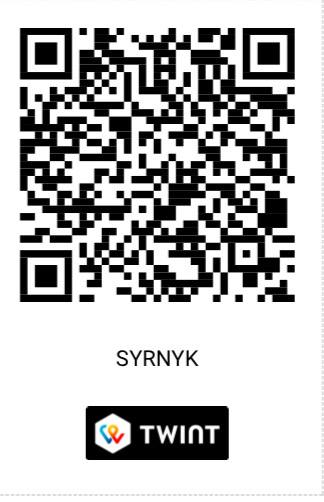
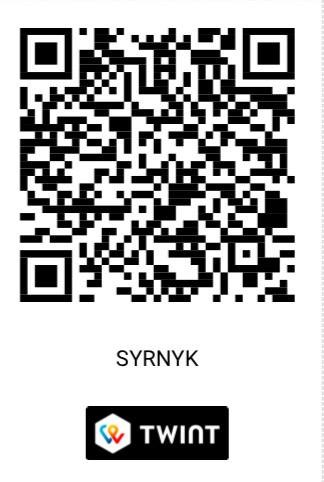
Updated Checkout page

diff --git a/frontend/src/components/ChackoutPage.js b/frontend/src/components/ChackoutPage.js
@@ -8,6 +8,7 @@ import { useTranslation } from 'react-i18next';
 import { apiClient } from '../utils/api';
 import { loadUserPreferences } from '../utils/userPreferences';
 
+
 // Components
 import AuthChoice from './AuthChoice';
 import CustomerInfoForm from './checkout/CustomerInfoForm';
@@ -100,6 +101,14 @@ const CheckoutPage = () => {
     message: ''
   });
 
+  // TWINT payment confirmation
+  const [twintPaymentConfirmed, setTwintPaymentConfirmed] = useState(false);
+  
+  // Handle TWINT confirmation change
+  const handleTwintConfirmationChange = (isConfirmed) => {
+    setTwintPaymentConfirmed(isConfirmed);
+  };
+  
   // Load initial data when user is available
   useEffect(() => {
     const loadInitialData = async () => {
@@ -195,6 +204,11 @@ const CheckoutPage = () => {
   // Handle form field changes
   const handleChange = (e) => {
     const { name, value, type, checked } = e.target;
+
+    // Reset TWINT confirmation when switching away from TWINT
+  if (name === 'paymentMethod' && value !== 'TWINT' && twintPaymentConfirmed) {
+    setTwintPaymentConfirmed(false);
+  }
     
     // Special handling for createAccount checkbox
     if (type === 'checkbox' && name === 'createAccount') {
@@ -238,90 +252,125 @@ const CheckoutPage = () => {
     }
   };
 
+  // Update submit button disabled condition
+const isSubmitDisabled = () => {
+  // Base conditions
+  const baseDisabled = isSubmitting || !deliveryCalculation.isValid;
+  
+  // Additional TWINT condition
+  const twintDisabled = formData.paymentMethod === 'TWINT' && !twintPaymentConfirmed;
+  
+  return baseDisabled || twintDisabled;
+};
+
   // Validate the form before submission
   const validateForm = () => {
-    // Basic required field validation
-    if (!formData.firstName || !formData.lastName || !formData.email || !formData.phone) {
-      setFormValidationError(t('validation.missing_fields'));
-      return false;
-    }
-
-    // Email validation
-    const emailRegex = /^[^\s@]+@[^\s@]+\.[^\s@]+$/;
-    if (!emailRegex.test(formData.email)) {
-      setFormValidationError(t('validation.invalid_email'));
-      return false;
-    }
-
-    // Phone validation
-    const phoneRegex = /^\+[1-9]\d{6,14}$/;
-    if (formData.phone && !phoneRegex.test(formData.phone)) {
-      setFormValidationError(t('validation.invalid_phone'));
-      return false;
-    }
-
-    // Delivery validation based on type
-    if (formData.deliveryType === 'ADDRESS') {
-      if (!formData.street || !formData.house || !formData.city || !formData.postalCode) {
-        setFormValidationError(t('validation.missing_address'));
-        return false;
-      }
-      
-      // Validate postal code
-      if (!/^\d{4}$/.test(formData.postalCode)) {
-        setFormValidationError(t('validation.invalid_postal_code'));
-        return false;
-      }
-      
-      // Check if delivery is valid based on calculation
-      if (!deliveryCalculation.isValid) {
-        setFormValidationError(deliveryCalculation.message || t('validation.delivery_not_available'));
-        return false;
-      }
-    } else if (formData.deliveryType === 'RAILWAY_STATION') {
-      if (!formData.stationId) {
-        setFormValidationError(t('validation.missing_station'));
-        return false;
-      }
-    }
-
-    // Delivery date and time validation
-    if (!formData.deliveryDate) {
-      setFormValidationError(t('validation.missing_delivery_date'));
-      return false;
-    }
-
-    // Time slot validation only for pickup
-  if (formData.deliveryType === 'PICKUP' && !formData.deliveryTimeSlot) {
-    setFormValidationError(t('validation.missing_delivery_time'));
-    return false;
+  let isValid = true;
+  let errorMessage = '';
+  const emailRegex = /^[^\s@]+@[^\s@]+\.[^\s@]+$/;
+  const phoneRegex = /^\+[1-9]\d{6,14}$/;
+  
+  // Basic required field validation with specific messages
+  if (!formData.firstName?.trim()) {
+    errorMessage = t('validation.first_name_required');
+    isValid = false;
+  } else if (!formData.lastName?.trim()) {
+    errorMessage = t('validation.last_name_required');
+    isValid = false;
+  } else if (!formData.email?.trim()) {
+    errorMessage = t('validation.email_required');
+    isValid = false;
+  } else if (!formData.phone?.trim()) {
+    errorMessage = t('validation.phone_required');
+    isValid = false;
   }
 
-    // Account creation validation
-    if (isGuest && createAccount) {
-      // Password validation
-      if (!formData.password || formData.password.length < 8) {
-        setFormValidationError(t('register.validation.password_requirements', { ns: 'auth' }));
-        return false;
-      }
-      
-      // Confirm password validation
-      if (formData.password !== formData.confirmPassword) {
-        setFormValidationError(t('register.validation.passwords_mismatch', { ns: 'auth' }));
-        return false;
-      }
-      
-      // Data consent validation
-      if (!formData.dataConsentAccepted) {
-        setFormValidationError(t('register.validation.consent_required', { ns: 'auth' }));
-        return false;
-      }
-    }
+  // Email validation
+  else if (!emailRegex.test(formData.email)) {
+    errorMessage = t('validation.invalid_email');
+    isValid = false;
+  }
 
-    // All validations passed
-    setFormValidationError(null);
-    return true;
-  };
+  // Phone validation
+  else if (formData.phone && !phoneRegex.test(formData.phone)) {
+    errorMessage = t('validation.invalid_phone');
+    isValid = false;
+  }
+
+  // Payment method validation
+  else if (!formData.paymentMethod) {
+    errorMessage = t('validation.payment_method_required');
+    isValid = false;
+  }
+
+  // TWINT specific validation
+  else if (formData.paymentMethod === 'TWINT' && !twintPaymentConfirmed) {
+    errorMessage = t('validation.twint_confirmation_required');
+    isValid = false;
+  }
+
+  // Delivery validation based on type
+  else if (formData.deliveryType === 'ADDRESS') {
+    if (!formData.street?.trim()) {
+      errorMessage = t('validation.street_required');
+      isValid = false;
+    } else if (!formData.house?.trim()) {
+      errorMessage = t('validation.house_required');
+      isValid = false;
+    } else if (!formData.city?.trim()) {
+      errorMessage = t('validation.city_required');
+      isValid = false;
+    } else if (!formData.postalCode?.trim()) {
+      errorMessage = t('validation.postal_code_required');
+      isValid = false;
+    } else if (!/^\d{4}$/.test(formData.postalCode)) {
+      errorMessage = t('validation.invalid_postal_code');
+      isValid = false;
+    } else if (!deliveryCalculation.isValid) {
+      errorMessage = deliveryCalculation.message || t('validation.delivery_not_available');
+      isValid = false;
+    }
+  } else if (formData.deliveryType === 'RAILWAY_STATION') {
+    if (!formData.stationId) {
+      errorMessage = t('validation.station_required');
+      isValid = false;
+    }
+  } else if (formData.deliveryType === 'PICKUP') {
+    if (!formData.storeId) {
+      errorMessage = t('validation.store_required');
+      isValid = false;
+    }
+  }
+
+  // Delivery date and time validation
+  else if (!formData.deliveryDate) {
+    errorMessage = t('validation.delivery_date_required');
+    isValid = false;
+  }
+
+  // Time slot validation only for pickup
+  else if (formData.deliveryType === 'PICKUP' && !formData.deliveryTimeSlot) {
+    errorMessage = t('validation.delivery_time_required');
+    isValid = false;
+  }
+
+  // Account creation validation
+  else if (isGuest && createAccount) {
+    if (!formData.password || formData.password.length < 8) {
+      errorMessage = t('register.validation.password_requirements', { ns: 'auth' });
+      isValid = false;
+    } else if (formData.password !== formData.confirmPassword) {
+      errorMessage = t('register.validation.passwords_mismatch', { ns: 'auth' });
+      isValid = false;
+    } else if (!formData.dataConsentAccepted) {
+      errorMessage = t('register.validation.consent_required', { ns: 'auth' });
+      isValid = false;
+    }
+  }
+
+  setFormValidationError(isValid ? null : errorMessage);
+  return isValid;
+};
 
   // Prepare time from time slot string
   const prepareTimeFromSlot = (dateString, timeSlotString) => {
@@ -374,7 +423,12 @@ const CheckoutPage = () => {
         deliveryCost: parseFloat(formData.deliveryCost) || 0,
         // Add delivery date and time slot
         deliveryDate: formData.deliveryDate,
-        deliveryTimeSlot: formData.deliveryTimeSlot
+        deliveryTimeSlot: formData.deliveryTimeSlot,
+        // Add TWINT confirmation data
+      ...(formData.paymentMethod === 'TWINT' && {
+        twintPaymentConfirmed: twintPaymentConfirmed,
+        twintConfirmationTime: new Date().toISOString()
+      })
       };
 
       // For guest orders, add customer info
@@ -499,7 +553,7 @@ const CheckoutPage = () => {
     return (
       <Container className="py-5 text-center">
         <h2 className="text-success mb-4">{t('checkout.order_success')}</h2>
-        <p>{t('checkout.success_message')}</p>
+        <p>{t('checkout.order_success_message')}</p>
         <Button variant="primary" className="mt-3" onClick={() => navigate('/')}>
           {t('checkout.continue_shopping')}
         </Button>
@@ -572,6 +626,7 @@ const CheckoutPage = () => {
                   <PaymentMethodSelector
                     selectedMethod={formData.paymentMethod}
                     onChange={handleChange}
+                    onTwintConfirmationChange={handleTwintConfirmationChange}
                   />
                 </section>
 
@@ -616,7 +671,7 @@ const CheckoutPage = () => {
                 type="submit"
                 size="lg"
                 variant="primary"
-                disabled={isSubmitting || !deliveryCalculation.isValid}
+                disabled={isSubmitDisabled()}
               >
                 {isSubmitting ? t('checkout.processing') : t('checkout.submit_order')}
               </Button>

diff --git a/frontend/src/components/PaymentMethodSelector.js b/frontend/src/components/PaymentMethodSelector.js
@@ -102,27 +102,23 @@ const PaymentMethodSelector = ({ selectedMethod, onChange, onTwintConfirmationCh
                 }}
               >
                 {/* Replace this div with actual QR code image */}
-                <div className="text-center">
-                  <img 
-                    src="/assets/images/qr-twint.jpg"
-                    alt="TWINT QR Code"
-                    style={{ maxWidth: '70%', maxHeight: '80%' }}
-                  />
-                  {/* <Wallet size={48} className="text-muted mb-2" />
+                {/* <div className="text-center">
+                  
+                  <Wallet size={48} className="text-muted mb-2" />
                   <div className="small text-muted">
 
                     {t('payment.twint.qr_placeholder', 'QR Code will appear here')}
-                  </div> */}
-                </div>
+                  </div>
+                </div> */}
                 
                 {/* Uncomment and use this when you have actual QR code */}
-                {/*
+                
                 <Image 
-                  src="/path/to/twint-qr-code.png" 
+                  src="/assets/images/qr-twint.jpg" 
                   alt="TWINT QR Code"
                   style={{ maxWidth: '100%', maxHeight: '100%' }}
                 />
-                */}
+               
               </div>
             </div>
 
@@ -143,7 +139,7 @@ const PaymentMethodSelector = ({ selectedMethod, onChange, onTwintConfirmationCh
               checked={twintPaymentConfirmed}
               onChange={handleTwintConfirmationChange}
               label={t('payment.twint.confirmation', 'Замовлення мною сплачено')}
-              className="d-flex justify-content-center"
+              className="d-flex justify-content-center gap-2"
             />
           </Card.Body>
         </Card>

diff --git a/frontend/src/components/DeliveryCostCalculator.js b/frontend/src/components/DeliveryCostCalculator.js
@@ -110,7 +110,7 @@ const DeliveryCostCalculator = ({
       // Check if order meets minimum amount
       if (totalPrice < minimumOrder) {
         valid = false;
-        calculationMessage = t('delivery.minimum_order_required', { minimum: minimumOrder });
+        /* calculationMessage = t('delivery.minimum_order_required', { minimum: minimumOrder }); */
       } 
       // Check if order qualifies for free delivery
       else if (totalPrice >= freeThreshold) {
